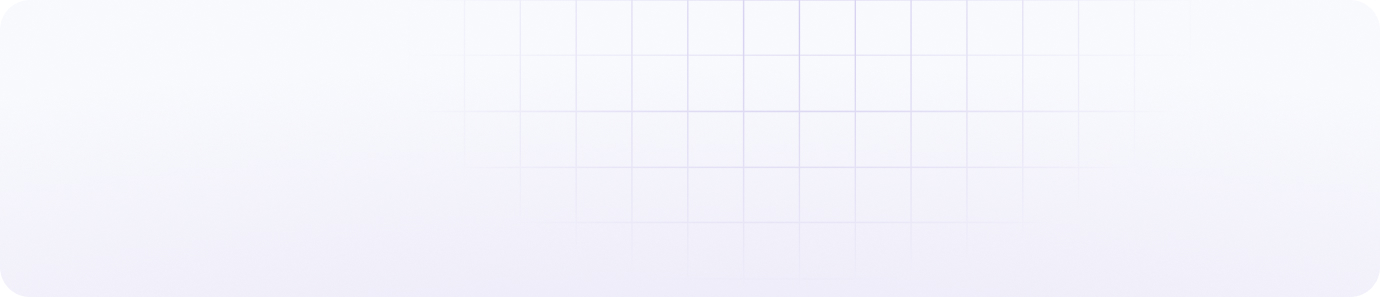
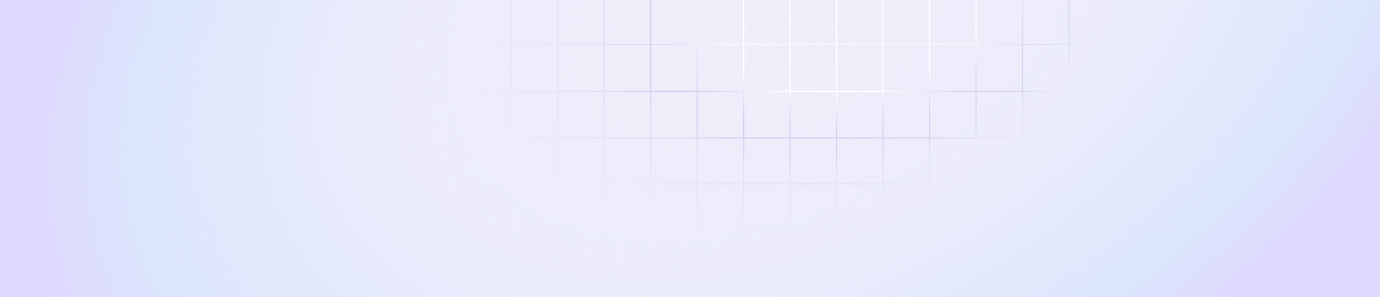
Add: Главная > Компонент (<marquee>) "Машины + Передовое программное..."

diff --git a/components/shared/about/AboutMainMarquee.tsx b/components/shared/about/AboutMainMarquee.tsx
@@ -1,0 +1,159 @@
+import React from "react";
+import {cn} from "@/lib/utils";
+import {ClassName} from "@/types/types";
+import {Container} from "@/components/shared/Container";
+import Image from "next/image";
+
+export const AboutMainMarquee: React.FC<ClassName> = ({className}) => {
+
+  const images = {
+    topImages: [
+      {
+        name: "1",
+        url: "/img/about-marquee/top-marquee/1.jpg"
+      },
+      {
+        name: "1",
+        url: "/img/about-marquee/top-marquee/2.jpg"
+      },
+      {
+        name: "3",
+        url: "/img/about-marquee/top-marquee/3.jpg"
+      },
+      {
+        name: "4",
+        url: "/img/about-marquee/top-marquee/4.jpg"
+      },
+      {
+        name: "5",
+        url: "/img/about-marquee/top-marquee/5.jpg"
+      },
+      {
+        name: "6",
+        url: "/img/about-marquee/top-marquee/6.jpg"
+      },
+      {
+        name: "7",
+        url: "/img/about-marquee/top-marquee/7.jpg"
+      },
+      {
+        name: "8",
+        url: "/img/about-marquee/top-marquee/8.jpg"
+      },
+      {
+        name: "9",
+        url: "/img/about-marquee/top-marquee/9.jpg"
+      },
+      {
+        name: "10",
+        url: "/img/about-marquee/top-marquee/10.jpg"
+      }
+    ],
+    botImages: [
+      {
+        name: "1",
+        url: "/img/about-marquee/bot-marquee/1.jpg"
+      },
+      {
+        name: "2",
+        url: "/img/about-marquee/bot-marquee/2.jpg"
+      },
+      {
+        name: "3",
+        url: "/img/about-marquee/bot-marquee/3.jpg"
+      },
+      {
+        name: "4",
+        url: "/img/about-marquee/bot-marquee/4.jpg"
+      },
+      {
+        name: "5",
+        url: "/img/about-marquee/bot-marquee/5.jpg"
+      },
+      {
+        name: "6",
+        url: "/img/about-marquee/bot-marquee/6.jpg"
+      },
+      {
+        name: "7",
+        url: "/img/about-marquee/bot-marquee/7.jpg"
+      },
+      {
+        name: "8",
+        url: "/img/about-marquee/bot-marquee/8.jpg"
+      },
+      {
+        name: "9",
+        url: "/img/about-marquee/bot-marquee/9.jpg"
+      },
+      {
+        name: "10",
+        url: "/img/about-marquee/bot-marquee/10.jpg"
+      }
+    ],
+    video: [
+      {
+        url: "/img/about-marquee/about-video.mp4",
+      }
+    ]
+  }
+
+  return (
+    <section className={cn("relative pt-15 pb-30", className)}>
+      <Container className={"max-w-[700px] mb-5"}>
+        <h3 className={"text-center text-3xl"}>
+          Машины + Передовое программное обеспечение =
+          <span className={"text-[#4F26E9] ml-1"}>Творения, воплощенные в жизнь</span>
+        </h3>
+      </Container>
+
+      {/* Движущиеся изображения */}
+      <div className={"overflow-x-hidden"}>
+        <div className="flex space-x-10 mb-5 animate-scroll-right">
+          {[...images.topImages, ...images.topImages].map((item, index) => (
+            <div key={index} className="rounded-3xl max-h-[160px] max-w-[160px] min-w-[160px] overflow-hidden">
+              <Image
+                src={item.url}
+                alt={item.name}
+                width={160}
+                height={160}
+              />
+            </div>
+          ))}
+        </div>
+
+        <div className="flex space-x-10 animate-scroll-left">
+          {[...images.botImages, ...images.botImages].map((item, index) => (
+            <div key={index} className="rounded-3xl max-h-[160px] max-w-[160px] min-w-[160px] overflow-hidden">
+              <Image
+                src={item.url}
+                alt={item.name}
+                width={160}
+                height={160}
+              />
+            </div>
+          ))}
+        </div>
+      </div>
+
+      {/* Блок с ноутбуком и видео */}
+      <div className="absolute top-[215px] left-1/2 transform -translate-x-1/2 w-[700px] h-[400px]">
+        <Image
+          src="/img/about-marquee/about-laptop.png"
+          alt="Ноутбук"
+          width={700}
+          height={400}
+          className="absolute z-30"
+        />
+        <video
+          src={images.video[0].url}
+          autoPlay
+          loop
+          muted
+          playsInline
+          className="absolute top-[23px] left-[83px] w-[78%] h-[84%] object-cover z-20"
+        />
+      </div>
+    </section>
+  );
+};

diff --git a/components/shared/about/AboutMainList.tsx b/components/shared/about/AboutMainList.tsx
@@ -1,0 +1,52 @@
+import React from "react";
+import {ClassName} from "@/types/types";
+import {cn} from "@/lib/utils";
+import {Container} from "@/components/shared/Container";
+import {Logo} from "@/components/shared/Logo";
+import {CircleCheck} from "lucide-react";
+
+export const AboutMainList: React.FC<ClassName> = ({className}) => {
+
+  const aboutList = [
+    {
+      name: "Поддержка",
+      desc: "В Инфолазере вы получите отличную цену, мы поможем с организацией доставки и документационным сопровождением.",
+    },
+    {
+      name: "Гарантия до 12 месяцев",
+      desc: "Мы даем гарантию 12 месяцев на оборудование на территории всей России и странах СНГ.",
+    },
+    {
+      name: "Большая база знаний",
+      desc: "Более 100 статей на различные темы, которые отвечают на самые интересные и сложные вопросы общего характера.",
+    }
+  ];
+
+  return (
+    <section className={cn("py-7", className)}>
+      <Container>
+        <Container className={"max-w-[930px] text-center mb-10"}>
+          <Logo className={"flex justify-center mb-3"} name={"logo"}/>
+          <h3 className={"text-4xl font-semibold"}>Компания Infolaser подберет и модернизирует станок с ЧПУ под ваши
+            задачи.
+            <span
+              className={"text-[#9298AF] ml-1"}>Мы обучим ваш персонал и обеспечим тех. поддержку на каждом этапе.</span>
+          </h3>
+        </Container>
+
+        <dl className={"flex justify-between gap-x-5"}>
+          {aboutList.map((item) => (
+            <div key={item.name}>
+              <dt className={"flex items-center gap-x-2 font-semibold mb-2"}>
+                <CircleCheck fill={"#4F26E9"} className={"text-white"} size={20}/>
+                {item.name}
+              </dt>
+              <dd className={"pl-7"}>{item.desc}</dd>
+            </div>
+          ))}
+        </dl>
+
+      </Container>
+    </section>
+  );
+};

diff --git a/app/globals.css b/app/globals.css
@@ -127,6 +127,7 @@
     }
 }
 
+/* Кастомный скролл */
 @layer base {
     * {
         @apply border-border outline-ring/50;
@@ -136,7 +137,6 @@
         @apply bg-background text-foreground;
     }
 
-    /* Кастомный скролл */
     ::-webkit-scrollbar {
         width: 6px;
         height: 6px;
@@ -159,5 +159,38 @@
     * {
         scrollbar-width: thin;
         scrollbar-color: rgba(100, 100, 100, 0.4) transparent;
+    }
+}
+
+/* Анимация скролла на главной странице */
+@layer base {
+    @keyframes scroll-right {
+        from {
+            transform: translateX(0);
+        }
+        to {
+            transform: translateX(-50%);
+        }
+    }
+
+    @keyframes scroll-left {
+        from {
+            transform: translateX(-50%);
+        }
+        to {
+            transform: translateX(0);
+        }
+    }
+
+    .animate-scroll-right {
+        display: flex;
+        width: max-content;
+        animation: scroll-right 50s linear infinite;
+    }
+
+    .animate-scroll-left {
+        display: flex;
+        width: max-content;
+        animation: scroll-left 50s linear infinite;
     }
 }

diff --git a/components/shared/about/AboutMain.tsx b/components/shared/about/AboutMain.tsx
@@ -1,0 +1,15 @@
+import {cn} from "@/lib/utils";
+import React from "react";
+import {ClassName} from "@/types/types";
+import {AboutMainList} from "@/components/shared/about/AboutMainList";
+import {AboutMainMarquee} from "@/components/shared/about/AboutMainMarquee";
+
+export const AboutMain: React.FC<ClassName> = ({className}) => {
+  return (
+    <section className={cn("py-7", className)}>
+      <h2 className={"hidden"}>О компании</h2>
+      <AboutMainList/>
+      <AboutMainMarquee/>
+    </section>
+  );
+}

diff --git a/api/api.ts b/api/api.ts
@@ -1,12 +1,12 @@
 import {Category, Product} from "@/types/types";
 
-const GET_HEADER_CATALOG_DATA = `https://api.infolasers.ru/api/catalog`;
-const GET_CATALOG_CATEGORIES = `https://api.infolasers.ru/api/category/getall`;
-const GET_ALL_PRODUCTS = `https://api.infolasers.ru/api/product/getall`;
+const GET_CATALOG_DATA = `https://api.infolasers.ru/api/catalog`;
+const GET_CATEGORIES = `https://api.infolasers.ru/api/category/getall`;
+const GET_PRODUCTS = `https://api.infolasers.ru/api/product/getall`;
 
 // Api получения массива категорий с продуктами, и аксессуаров. (Используется в header > Каталог)
 export async function getCatalogData(): Promise<{ product: Category[]; accessory: Category[]; }> {
-  const res = await fetch(GET_HEADER_CATALOG_DATA, {next: {revalidate: 60}});
+  const res = await fetch(GET_CATALOG_DATA, {next: {revalidate: 60}});
 
   if (!res.ok) {
     throw new Error("Ошибка загрузки данных");
@@ -22,7 +22,7 @@ export async function getCatalogData(): Promise<{ product: Category[]; accessory
 
 // Api получения массива категорий с вложенными продуктами
 export async function getCategories(): Promise<Category[]> {
-  const res = await fetch(GET_CATALOG_CATEGORIES, {next: {revalidate: 60}});
+  const res = await fetch(GET_CATEGORIES, {next: {revalidate: 60}});
 
   if (!res.ok) {
     throw new Error("Ошибка загрузки категорий");
@@ -34,7 +34,7 @@ export async function getCategories(): Promise<Category[]> {
 
 // Api получения массива продуктов с вложенными категориями
 export async function getProducts(): Promise<Product[]> {
-  const res = await fetch(GET_ALL_PRODUCTS, {next: {revalidate: 60}});
+  const res = await fetch(GET_PRODUCTS, {next: {revalidate: 60}});
 
   if (!res.ok) {
     throw new Error("Ошибка загрузки продуктов");

diff --git a/app/(root)/page.tsx b/app/(root)/page.tsx
@@ -2,8 +2,9 @@ import {BannerMain} from "@/components/shared/carousels/banners/Banner-main";
 import {NewProductsSlider} from "@/components/shared/carousels/New-products-slider";
 import {PartnersSlider} from "@/components/shared/carousels/Partners-slider";
 import {UniqMachinesSlider} from "@/components/shared/carousels/Uniq-machines-slider";
-import OfflineOrOnlineMain from "@/components/shared/OfflineOrOnlineMain";
+import {OfflineOrOnlineMain} from "@/components/shared/OfflineOrOnlineMain";
 import {SimplerTabsMain} from "@/components/shared/SimplerTabsMain";
+import {AboutMain} from "@/components/shared/about/AboutMain";
 
 export default function MainPage() {
   return (
@@ -19,6 +20,8 @@ export default function MainPage() {
       <OfflineOrOnlineMain/>
 
       <SimplerTabsMain/>
+
+      <AboutMain/>
     </>
   );
 }

diff --git a/components/shared/OfflineOrOnlineMain.tsx b/components/shared/OfflineOrOnlineMain.tsx
@@ -4,10 +4,11 @@ import {cn} from "@/lib/utils";
 import React from "react";
 import Link from "next/link";
 import {Container} from "@/components/shared/Container";
+import {ClassName} from "@/types/types";
 
-export default function OfflineOrOnlineMain() {
+export const OfflineOrOnlineMain: React.FC<ClassName> = ({className}) => {
   return (
-    <div className={"py-7"}>
+    <div className={cn("py-7", className)}>
       <Container>
         <div
           className="flex items-center bg-[url('/img/demo-bg/demo-bg.jpg')] bg-no-repeat bg-cover rounded-4xl px-5 overflow-hidden">